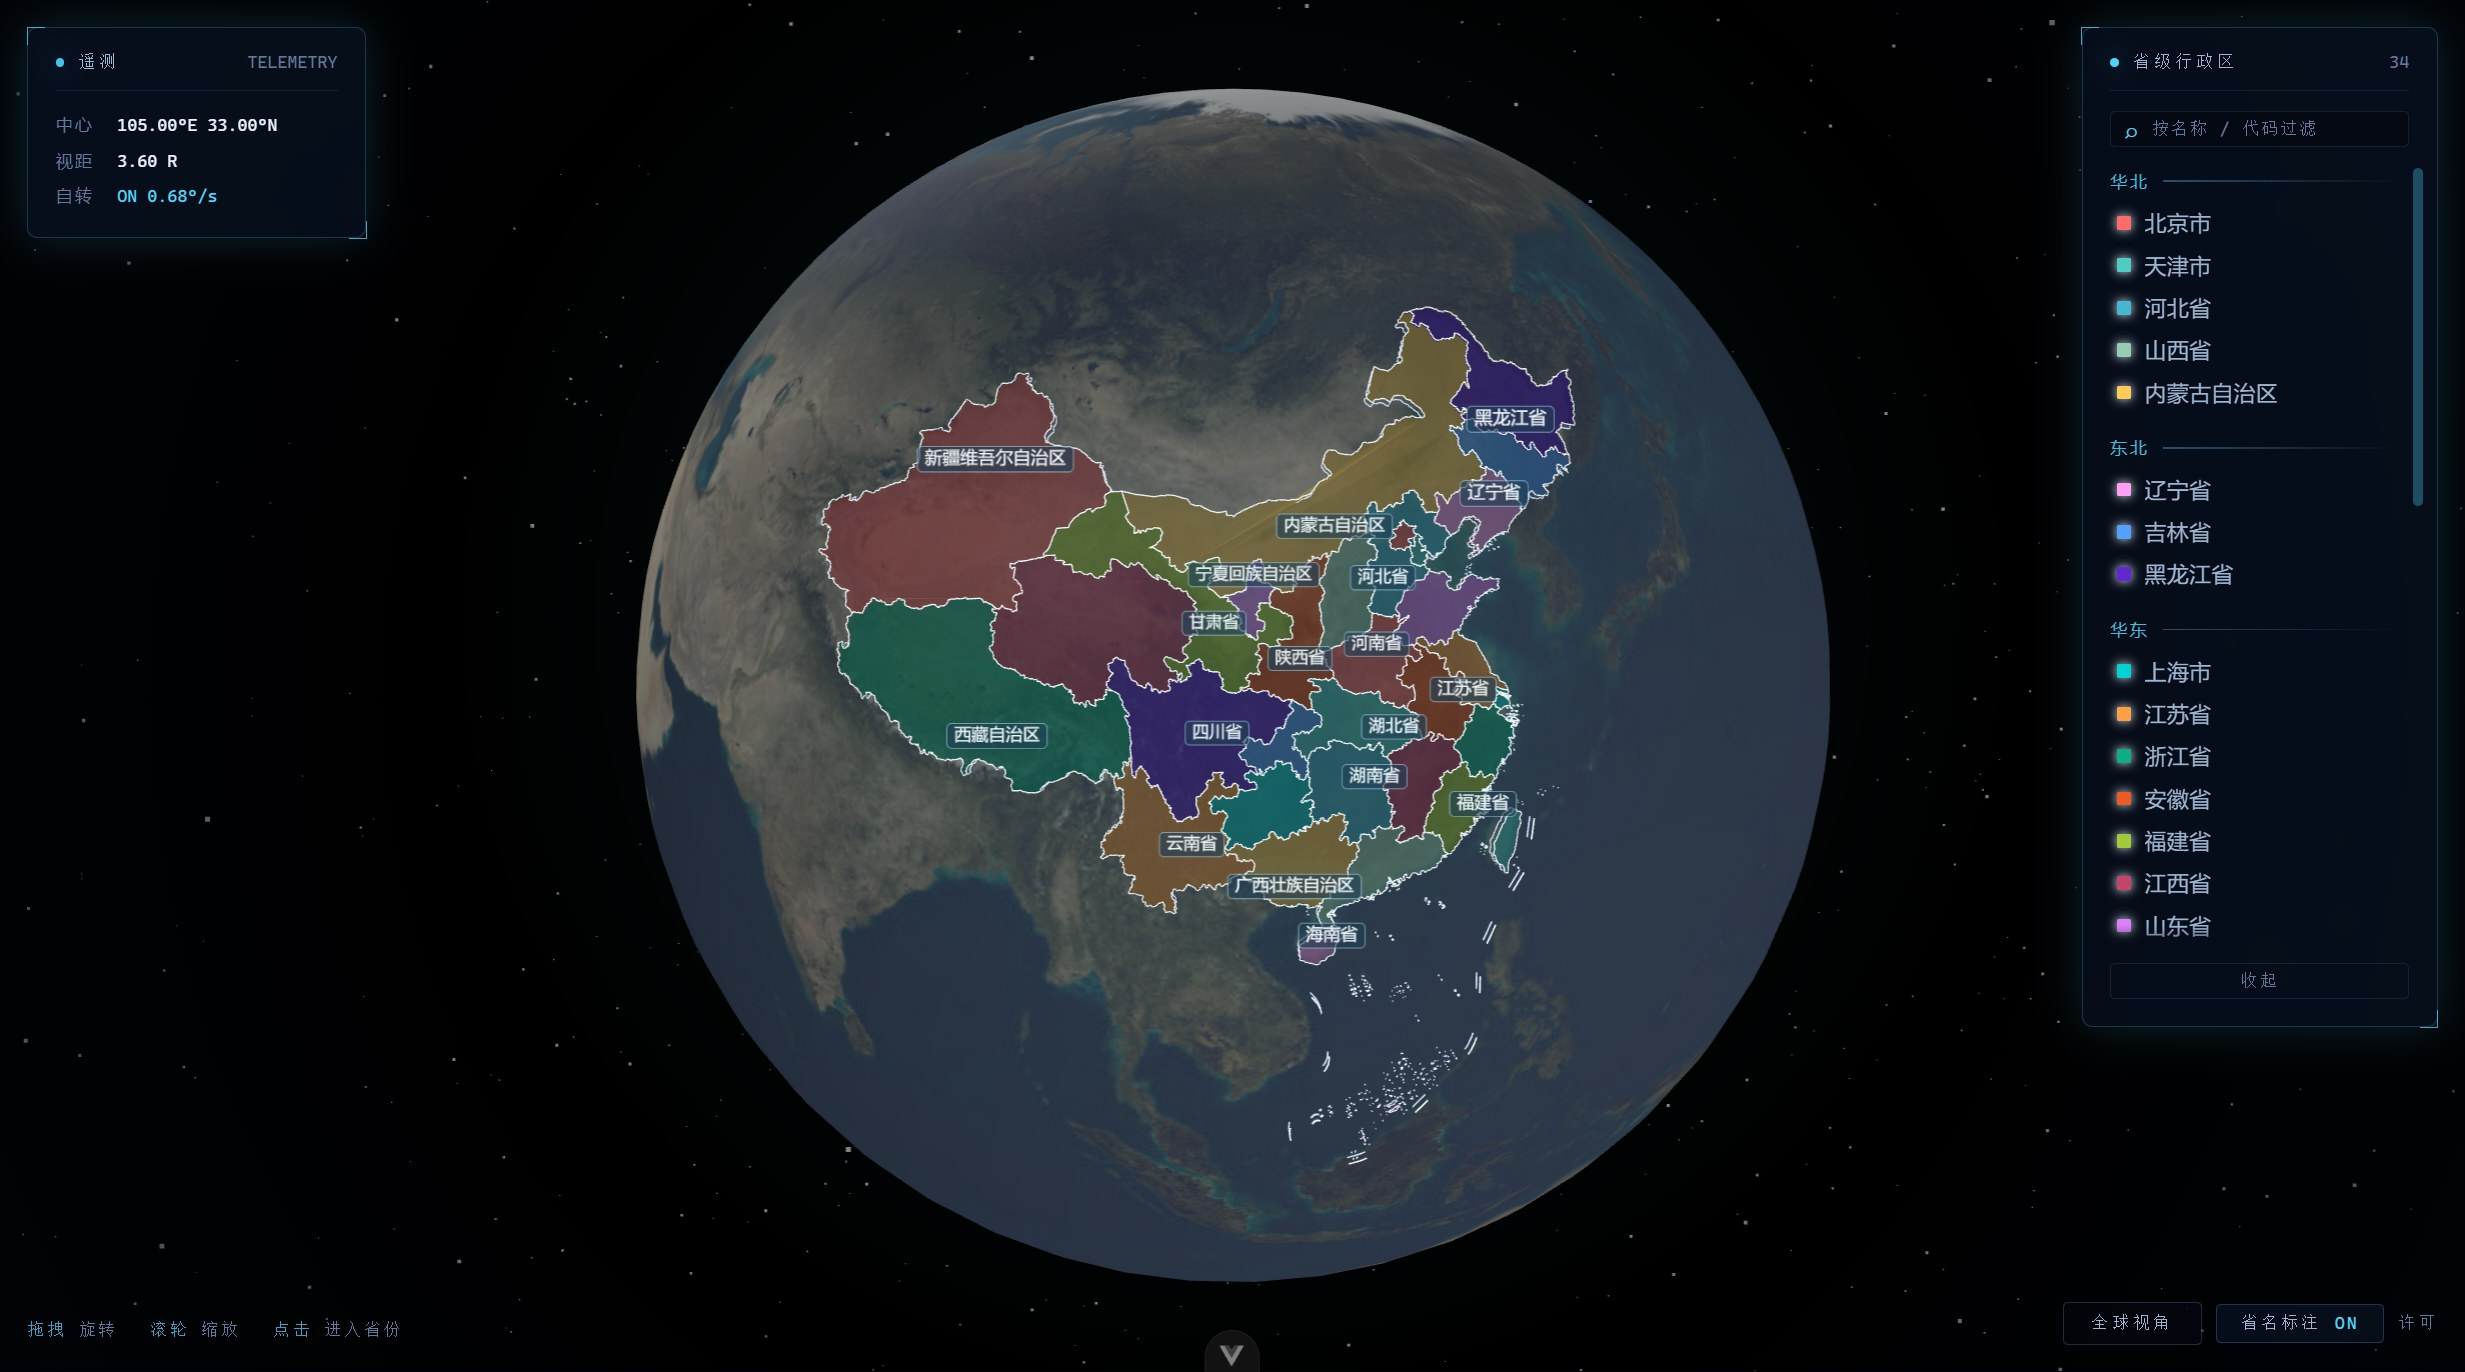
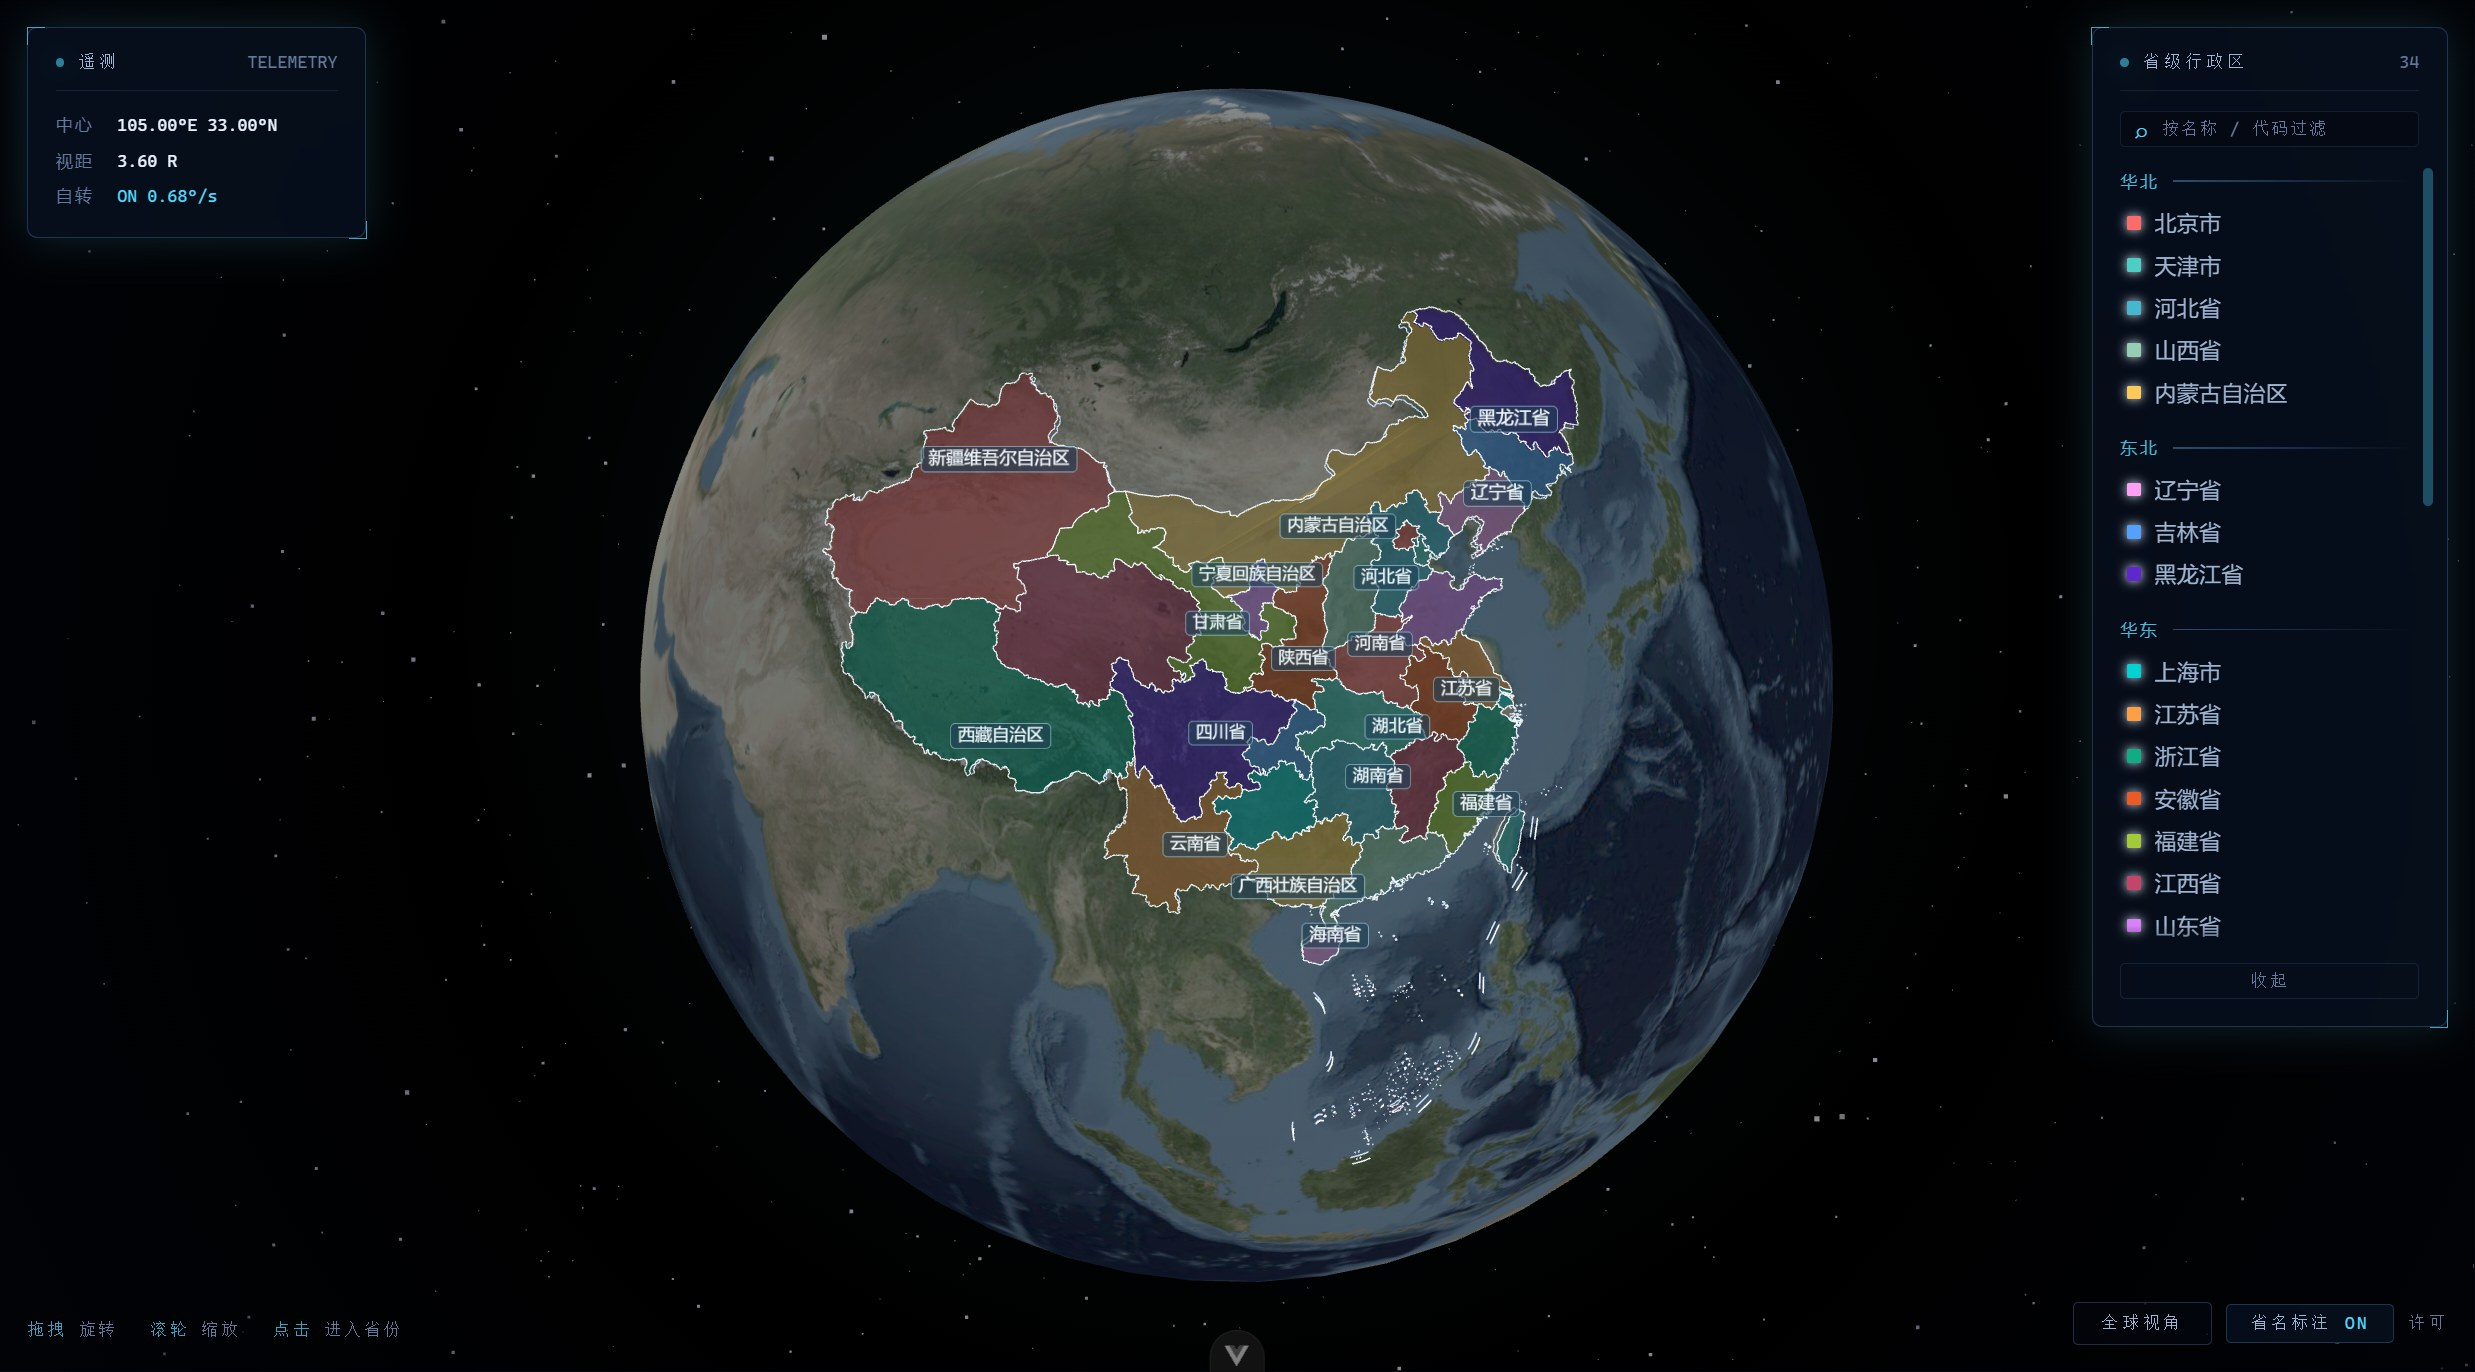
feat: 换用 NASA 官方 4096×2048 地球贴图，并加数据源体检
贴图：

- 原先那份 2048×1024 是 three.js 示例资源
  examples/textures/planets/earth_atmos_2048.jpg 的逐字节副本（sha256
  2faa400d…），其影像本体是 NASA Blue Marble 的 land_ocean_ice 产品。
- 改用 NASA 官方 BMNG「地形与水深」2004 年 7 月的 5400×2700 原图，
  缩放到 4096×2048、逐通道配平亮度与饱和度以对齐原有观感、JPEG 质量 80、
  不写 EXIF / XMP。赤道处像素从 19.6 km 降到 9.8 km，体积 507 KB → 957 KB。
- 受贴图影响的三张 README 截图重拍。

数据源体检：

- 新增 scripts/check-licenses.mjs（npm run licenses:check）：逐个体检数据源
  是否还可达、npm 包的许可字段是否还与 LICENSES.md 登记的一致，并区分
  「上游失效」与「本机网络不通」。
- 接到每周的同步流水线里——同步脚本只管拉数据，察觉不到「上游改了条款」。
  写这个脚本的当天就抓到 geoBoundaries 直连不通，正好印证它有用。

来源链与分辨率同步补进 LICENSES.md、README 与 /licenses 页。

diff --git a/src/components/LicensesPage.vue b/src/components/LicensesPage.vue
@@ -107,10 +107,10 @@
             </thead>
             <tbody>
               <tr>
-                <td><code>public/textures/earth_atmos_2048.jpg</code></td>
+                <td><code>public/textures/earth_atmos_4096.jpg</code></td>
                 <td>地球贴图（两个视角共用）</td>
                 <td>
-                  NASA Blue Marble Next Generation（<code>land_ocean_ice_2048</code>），经色彩调整
+                  NASA Blue Marble Next Generation「地形与水深」产品，2004 年 7 月，原始 5400×2700
                 </td>
                 <td>NASA 影像一般不受著作权保护，无需取得许可；按其媒体使用指引署名</td>
               </tr>

diff --git a/src/components/WorldScene.vue b/src/components/WorldScene.vue
@@ -256,7 +256,7 @@ const initThree = () => {
     new THREE.SphereGeometry(2, 64, 64),
     new THREE.MeshPhongMaterial({
       // 与地球页同一张卫星贴图：两个视角是同一个产品，视觉语言必须一致
-      map: new THREE.TextureLoader().load('/textures/earth_atmos_2048.jpg'),
+      map: new THREE.TextureLoader().load('/textures/earth_atmos_4096.jpg'),
       color: 0xffffff,
       specular: new THREE.Color(0x333333),
       shininess: 10,

diff --git a/src/components/EarthScene.vue b/src/components/EarthScene.vue
@@ -398,7 +398,7 @@ const initEarth = () => {
   const textureLoader = new THREE.TextureLoader()
   // 使用占位贴图（项目 public/textures 中会提供真实贴图）
   const earthTexture = textureLoader.load(
-    '/textures/earth_atmos_2048.jpg',
+    '/textures/earth_atmos_4096.jpg',
     undefined,
     undefined,
     () => {

diff --git a/AGENTS.md b/AGENTS.md
@@ -33,6 +33,7 @@
 | `scripts/update-geo.mjs` | 中国地理数据同步：省界、地级市边界、各省面积 |
 | `scripts/update-world.mjs` | 世界国界同步：拉取、校验、写入 |
 | `scripts/update-tw.mjs` | 台湾省 22 个县市边界同步（几何取 geoBoundaries，属性取内政部） |
+| `scripts/check-licenses.mjs` | 数据源体检：上游是否还可达、许可是否还与 `LICENSES.md` 登记的一致 |
 | `public/geojson/` | 地理数据源，**只读**（由上述脚本更新，不要手工改） |
 | `public/data/provinces/` | 省份详情页静态数据 |
 | `docs/` | README 引用的界面截图 |
@@ -54,6 +55,7 @@ npm run geo:update     # 从 DataV 同步中国地理数据到 public/geojson/
 npm run world:check    # 校验世界国界与上游是否一致
 npm run world:update   # 从 npmmirror 同步世界国界
 npm run tw:update      # 同步台湾省县市边界
+npm run licenses:check # 体检数据源：上游可达性与许可是否仍与登记一致
 ```
 
 CI 定义在 `.github/workflows/ci.yml`：push 与 PR 都跑 `lint:check` + `test:unit` + `build`。
@@ -137,7 +139,7 @@ npmmirror 的单文件接口对这几个包是 403，tarball 是唯一通道。`
 
 ## 已知限制
 
-- 地球贴图 2048×1024，放大到省级尺度会模糊；中国视角与全球视角共用这一张贴图。
+- 地球贴图 4096×2048，放大到省级尺度仍会模糊；中国视角与全球视角共用这一张贴图。
 - 省级详情页的人口是 2023 年末的公开统计口径，各省统计年份不完全一致；分省人口的权威自动源在受限网络下不可达。
 - 全球视角不含人口：国内没有可自动同步的权威人口源，改用边界实算面积。
 - 上游几何覆盖不全：世界数据没有科索沃（两个上游都没有它的边界）。

diff --git a/LICENSES.md b/LICENSES.md
@@ -52,7 +52,11 @@
 
 | 文件 | 内容 | 来源 | 许可 |
 |---|---|---|---|
-| `public/textures/earth_atmos_2048.jpg` | 地球贴图（两个视角共用） | NASA Blue Marble Next Generation（`land_ocean_ice_2048`），经色彩调整 | NASA 影像一般不受著作权保护，无需取得许可；按其媒体使用指引署名 |
+| `public/textures/earth_atmos_4096.jpg` | 地球贴图（两个视角共用） | NASA Blue Marble Next Generation「地形与水深」产品，2004 年 7 月，原始 5400×2700（[原图](https://assets.science.nasa.gov/content/dam/science/esd/eo/images/bmng/bmng-topography-bathymetry/july/world.topo.bathy.200407.3x5400x2700.jpg)） | NASA 影像一般不受著作权保护，无需取得许可；按其媒体使用指引署名 |
+
+贴图的处理过程：缩放到 4096×2048 → 逐通道配平亮度与饱和度，使观感与原先的 2048 版一致 → 存为 JPEG（质量 80）→ 不写 EXIF / XMP。
+
+原先那份 2048×1024 的贴图是 three.js 示例资源 `examples/textures/planets/earth_atmos_2048.jpg` 的逐字节副本（sha256 `2faa400d…`），其影像本体同样是 NASA Blue Marble。
 
 贴图文件已去掉 EXIF / XMP 元数据（其中只有编辑工具与时间戳，不含署名信息）。
 
